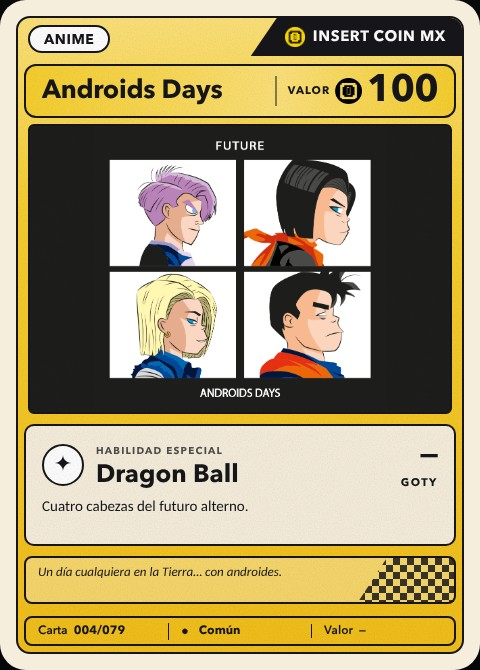
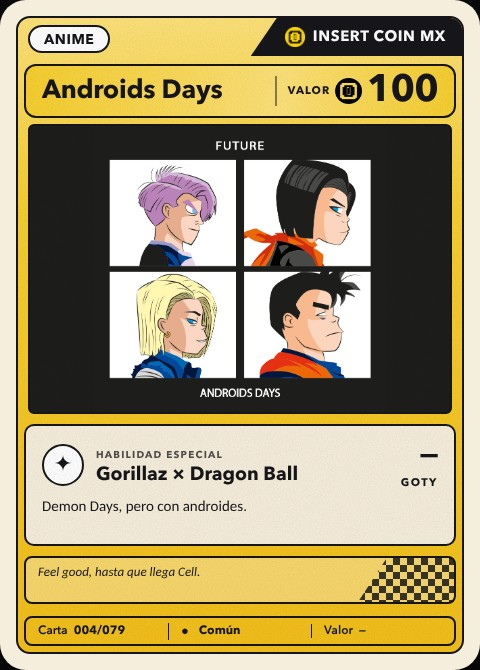
Textos corregidos de 7 cartas (Choo Choo, Pika Ball, 9000, Androids Days, KOF, Vámonos Pest, Galaxian Wars)
Claude-Session: https://claude.ai/code/session_01WEHJpHfwveC4AShtfmQqe7

Changed region(s): [[0.0938, 0.6567, 0.625, 0.7761], [0.0938, 0.8358, 0.5938, 0.8657]]

diff --git a/index.html b/index.html
@@ -606,7 +606,7 @@ button{font:inherit;color:inherit;background:none;border:0;cursor:pointer}
 <div class="onb" id="onb"><img id="onImg"><h2 id="onT"></h2><p id="onP"></p><div class="d" id="onDots"></div><button class="big" id="onNext"></button></div>
 <div class="toast" id="toast"></div>
 
-<script>const CARDS=[{"k":"9000","n":"It's Over 9000","cat":"ANIME","r":"comun","no":1},{"k":"abuket","n":"Abuket","cat":"GAMER","r":"comun","no":2},{"k":"alienonboard","n":"Alien on Board","cat":"PELÍCULAS","r":"comun","no":3},{"k":"androidsdays","n":"Androids Days","cat":"ANIME","r":"comun","no":4},{"k":"animehero","n":"Anime Héroe","cat":"ANIME","r":"comun","no":5},{"k":"arcade","n":"Anatomía del Arcade","cat":"GAMER","r":"comun","no":6},{"k":"arcade2","n":"Insert Coin","cat":"GAMER","r":"comun","no":7},{"k":"artemis","n":"Artemis","cat":"ANIME","r":"comun","no":8},{"k":"blooper","n":"Blooper Maki","cat":"GAMER","r":"comun","no":9},{"k":"bort","n":"Bort","cat":"CARICATURAS","r":"comun","no":10},{"k":"bustfiction","n":"Bust Fiction","cat":"PELÍCULAS","r":"comun","no":11},{"k":"challenger","n":"Here Comes a New Challenger","cat":"GAMER","r":"comun","no":12},{"k":"choochoo","n":"Choo Choo","cat":"CARICATURAS","r":"comun","no":13},{"k":"chorriuken","n":"Chorriuken","cat":"GAMER","r":"comun","no":14},{"k":"collector","n":"Collector","cat":"GAMER","r":"comun","no":15},{"k":"controls","n":"Controls","cat":"GAMER","r":"comun","no":16},{"k":"evilexes","n":"Evil Exes","cat":"PELÍCULAS","r":"comun","no":17},{"k":"family","n":"Family","cat":"GAMER","r":"comun","no":18},{"k":"fatality","n":"Fatality","cat":"GAMER","r":"dorada","no":19},{"k":"fatman","n":"Fatman","cat":"PELÍCULAS","r":"comun","no":20},{"k":"fck","n":"#Fuck","cat":"GAMER","r":"holo","no":21},{"k":"futbolito","n":"Futbolito","cat":"OTROS","r":"comun","no":22},{"k":"galaxianwars","n":"Galaxian Wars","cat":"ANIME","r":"comun","no":23},{"k":"gameover","n":"Game Over","cat":"GAMER","r":"dorada","no":24},{"k":"gamepop","n":"Game Pop","cat":"GAMER","r":"holo","no":25},{"k":"gatosamurai","n":"Gato Samurái","cat":"ANIME","r":"comun","no":26},{"k":"gunsncontrols","n":"Guns N' Controls","cat":"GAMER","r":"comun","no":27},{"k":"humangamer","n":"Human Gamer","cat":"GAMER","r":"comun","no":28},{"k":"hyrule","n":"Hyrule","cat":"GAMER","r":"comun","no":29},{"k":"imposible","n":"Imposible","cat":"OTROS","r":"comun","no":30},{"k":"invader","n":"Invader","cat":"GAMER","r":"comun","no":31},{"k":"kaiji","n":"Kaiju Club","cat":"PELÍCULAS","r":"comun","no":32},{"k":"kame","n":"Kame Hame Ha","cat":"ANIME","r":"comun","no":33},{"k":"karting","n":"Karting Party","cat":"GAMER","r":"comun","no":34},{"k":"keepcalm","n":"Keep Calm","cat":"ANIME","r":"comun","no":35},{"k":"killbills","n":"Kill Bills","cat":"PELÍCULAS","r":"comun","no":36},{"k":"kof","n":"KOF ’94","cat":"GAMER","r":"comun","no":37},{"k":"konamicode","n":"Konami Code","cat":"GAMER","r":"comun","no":38},{"k":"linkfloyd","n":"Link Floyd","cat":"GAMER","r":"comun","no":39},{"k":"links","n":"Links","cat":"GAMER","r":"holo","no":40},{"k":"luna","n":"Luna","cat":"ANIME","r":"comun","no":41},{"k":"mainstream","n":"Mainstream","cat":"GAMER","r":"comun","no":42},{"k":"mapa","n":"Mapa","cat":"GAMER","r":"comun","no":43},{"k":"mrkarate","n":"Mr. Karate","cat":"PELÍCULAS","r":"comun","no":44},{"k":"n64","n":"N64","cat":"GAMER","r":"comun","no":45},{"k":"navidadgamer","n":"Navidad Gamer","cat":"GAMER","r":"comun","no":46},{"k":"nerv","n":"Nerv","cat":"ANIME","r":"holo","no":47},{"k":"no","n":"NO","cat":"GAMER","r":"comun","no":48},{"k":"nowloading","n":"Now Loading","cat":"GAMER","r":"comun","no":49},{"k":"ochentas","n":"Ochentas","cat":"GAMER","r":"comun","no":50},{"k":"oldschool","n":"Old School","cat":"GAMER","r":"comun","no":51},{"k":"omkami","n":"Ōkami","cat":"GAMER","r":"holo","no":52},{"k":"patronus","n":"Mi Patronus","cat":"PELÍCULAS","r":"comun","no":53},{"k":"pikaball","n":"Pika Ball","cat":"GAMER","r":"comun","no":54},{"k":"pizzcipher","n":"Pizzcipher","cat":"CARICATURAS","r":"comun","no":55},{"k":"poketaco","n":"Poké Taco","cat":"GAMER","r":"comun","no":56},{"k":"polystation","n":"PolyStation","cat":"GAMER","r":"holo","no":57},{"k":"portatiles","n":"Portátiles","cat":"GAMER","r":"comun","no":58},{"k":"sailors","n":"Sailor Scout","cat":"ANIME","r":"comun","no":59},{"k":"sailourss","n":"Sailor URSS","cat":"ANIME","r":"comun","no":60},{"k":"samus","n":"Samus","cat":"GAMER","r":"comun","no":61},{"k":"sensei","n":"Sensei","cat":"ANIME","r":"comun","no":62},{"k":"shadaloo","n":"Shadaloo","cat":"GAMER","r":"comun","no":63},{"k":"shenzalcoatl","n":"Shenzalcoatl","cat":"ANIME","r":"comun","no":64},{"k":"snes","n":"Ignore All of My Adult Problems","cat":"GAMER","r":"comun","no":65},{"k":"sv001","n":"SV-001","cat":"GAMER","r":"comun","no":66},{"k":"thankyou","n":"Thank You","cat":"GAMER","r":"comun","no":67},{"k":"thelostgame","n":"The Lost Game","cat":"GAMER","r":"comun","no":68},{"k":"theworldwarrior","n":"The World Warrior","cat":"GAMER","r":"comun","no":69},{"k":"tmnt","n":"Tortugas Ninja","cat":"CARICATURAS","r":"comun","no":70},{"k":"toto","n":"Totoro","cat":"ANIME","r":"comun","no":71},{"k":"triforce","n":"Triforce","cat":"GAMER","r":"dorada","no":72},{"k":"vamonospest","n":"Vámonos Pest","cat":"CARICATURAS","r":"comun","no":73},{"k":"vidaextra","n":"Una Vida Extra","cat":"GAMER","r":"holo","no":74},{"k":"wirimask","n":"Wirimask","cat":"GAMER","r":"comun","no":75},{"k":"x","n":"X","cat":"GAMER","r":"comun","no":76},{"k":"yinyang","n":"Yin Yang","cat":"GAMER","r":"holo","no":77},{"k":"zero","n":"Zero","cat":"GAMER","r":"comun","no":78},{"k":"zodiac","n":"Zodiaco","cat":"ANIME","r":"comun","no":79},{"k":"F_abuket","n":"abuket","cat":"","r":"full","no":1},{"k":"F_arcade","n":"arcade","cat":"","r":"full","no":2},{"k":"F_asteroids","n":"asteroids","cat":"","r":"full","no":3},{"k":"F_blooper","n":"blooper","cat":"","r":"full","no":4},{"k":"F_bustfiction","n":"bustfiction","cat":"","r":"full","no":5},{"k":"F_challenger","n":"challenger","cat":"","r":"full","no":6},{"k":"F_collector","n":"collector","cat":"","r":"full","no":7},{"k":"F_controls","n":"controls","cat":"","r":"full","no":8},{"k":"F_docecasas","n":"docecasas","cat":"","r":"full","no":9},{"k":"F_fatman","n":"fatman","cat":"","r":"full","no":10},{"k":"F_fck","n":"fck","cat":"","r":"full","no":11},{"k":"F_futbolito","n":"futbolito","cat":"","r":"full","no":12},{"k":"F_gamepop","n":"gamepop","cat":"","r":"full","no":13},{"k":"F_gatosamurai","n":"gatosamurai","cat":"","r":"full","no":14},{"k":"F_gunsncontrols","n":"gunsncontrols","cat":"","r":"full","no":15},{"k":"F_humangamer","n":"humangamer","cat":"","r":"full","no":16},{"k":"F_hyrule","n":"hyrule","cat":"","r":"full","no":17},{"k":"F_invader","n":"invader","cat":"","r":"full","no":18},{"k":"F_keepcalm","n":"keepcalm","cat":"","r":"full","no":19},{"k":"F_mapa","n":"mapa","cat":"","r":"full","no":20},{"k":"F_mrkarate","n":"mrkarate","cat":"","r":"full","no":21},{"k":"F_n64","n":"n64","cat":"","r":"full","no":22},{"k":"F_nerv","n":"nerv","cat":"","r":"full","no":23},{"k":"F_omkami","n":"omkami","cat":"","r":"full","no":24},{"k":"F_pizzcipher","n":"pizzcipher","cat":"","r":"full","no":25},{"k":"F_poketaco","n":"poketaco","cat":"","r":"full","no":26},{"k":"F_polystation","n":"polystation","cat":"","r":"full","no":27},{"k":"F_samus","n":"samus","cat":"","r":"full","no":28},{"k":"F_sensei","n":"sensei","cat":"","r":"full","no":29},{"k":"F_shenzalcoatl","n":"shenzalcoatl","cat":"","r":"full","no":30},{"k":"F_snes","n":"snes","cat":"","r":"full","no":31},{"k":"F_sonic","n":"sonic","cat":"","r":"full","no":32},{"k":"F_sv001","n":"sv001","cat":"","r":"full","no":33},{"k":"F_thankyou","n":"thankyou","cat":"","r":"full","no":34},{"k":"F_triforce","n":"triforce","cat":"","r":"full","no":35},{"k":"F_vidaextra","n":"vidaextra","cat":"","r":"full","no":36},{"k":"F_wirimask","n":"wirimask","cat":"","r":"full","no":37},{"k":"F_worldwarrior","n":"worldwarrior","cat":"","r":"full","no":38},{"k":"F_x","n":"x","cat":"","r":"full","no":39},{"k":"F_yinyang","n":"yinyang","cat":"","r":"full","no":40},{"k":"F_zero","n":"zero","cat":"","r":"full","no":41},{"k":"F_zodiaco","n":"zodiaco","cat":"","r":"full","no":42}];
+<script>const CARDS=[{"k":"9000","n":"It's Over 9000","cat":"ANIME","r":"comun","no":1},{"k":"abuket","n":"Abuket","cat":"GAMER","r":"comun","no":2},{"k":"alienonboard","n":"Alien on Board","cat":"PELÍCULAS","r":"comun","no":3},{"k":"androidsdays","n":"Androids Days","cat":"ANIME","r":"comun","no":4},{"k":"animehero","n":"Anime Héroe","cat":"ANIME","r":"comun","no":5},{"k":"arcade","n":"Anatomía del Arcade","cat":"GAMER","r":"comun","no":6},{"k":"arcade2","n":"Insert Coin","cat":"GAMER","r":"comun","no":7},{"k":"artemis","n":"Artemis","cat":"ANIME","r":"comun","no":8},{"k":"blooper","n":"Blooper Maki","cat":"GAMER","r":"comun","no":9},{"k":"bort","n":"Bort","cat":"CARICATURAS","r":"comun","no":10},{"k":"bustfiction","n":"Bust Fiction","cat":"PELÍCULAS","r":"comun","no":11},{"k":"challenger","n":"Here Comes a New Challenger","cat":"GAMER","r":"comun","no":12},{"k":"choochoo","n":"Choo Choo","cat":"CARICATURAS","r":"comun","no":13},{"k":"chorriuken","n":"Chorriuken","cat":"GAMER","r":"comun","no":14},{"k":"collector","n":"Collector","cat":"GAMER","r":"comun","no":15},{"k":"controls","n":"Controls","cat":"GAMER","r":"comun","no":16},{"k":"evilexes","n":"Evil Exes","cat":"PELÍCULAS","r":"comun","no":17},{"k":"family","n":"Family","cat":"GAMER","r":"comun","no":18},{"k":"fatality","n":"Fatality","cat":"GAMER","r":"dorada","no":19},{"k":"fatman","n":"Fatman","cat":"PELÍCULAS","r":"comun","no":20},{"k":"fck","n":"#Fuck","cat":"GAMER","r":"holo","no":21},{"k":"futbolito","n":"Futbolito","cat":"OTROS","r":"comun","no":22},{"k":"galaxianwars","n":"Galaxian Wars","cat":"ANIME","r":"comun","no":23},{"k":"gameover","n":"Game Over","cat":"GAMER","r":"dorada","no":24},{"k":"gamepop","n":"Game Pop","cat":"GAMER","r":"holo","no":25},{"k":"gatosamurai","n":"Gato Samurái","cat":"ANIME","r":"comun","no":26},{"k":"gunsncontrols","n":"Guns N' Controls","cat":"GAMER","r":"comun","no":27},{"k":"humangamer","n":"Human Gamer","cat":"GAMER","r":"comun","no":28},{"k":"hyrule","n":"Hyrule","cat":"GAMER","r":"comun","no":29},{"k":"imposible","n":"Imposible","cat":"OTROS","r":"comun","no":30},{"k":"invader","n":"Invader","cat":"GAMER","r":"comun","no":31},{"k":"kaiji","n":"Kaiju Club","cat":"PELÍCULAS","r":"comun","no":32},{"k":"kame","n":"Kame Hame Ha","cat":"ANIME","r":"comun","no":33},{"k":"karting","n":"Karting Party","cat":"GAMER","r":"comun","no":34},{"k":"keepcalm","n":"Keep Calm","cat":"ANIME","r":"comun","no":35},{"k":"killbills","n":"Kill Bills","cat":"PELÍCULAS","r":"comun","no":36},{"k":"kof","n":"KOF Héroes","cat":"GAMER","r":"comun","no":37},{"k":"konamicode","n":"Konami Code","cat":"GAMER","r":"comun","no":38},{"k":"linkfloyd","n":"Link Floyd","cat":"GAMER","r":"comun","no":39},{"k":"links","n":"Links","cat":"GAMER","r":"holo","no":40},{"k":"luna","n":"Luna","cat":"ANIME","r":"comun","no":41},{"k":"mainstream","n":"Mainstream","cat":"GAMER","r":"comun","no":42},{"k":"mapa","n":"Mapa","cat":"GAMER","r":"comun","no":43},{"k":"mrkarate","n":"Mr. Karate","cat":"PELÍCULAS","r":"comun","no":44},{"k":"n64","n":"N64","cat":"GAMER","r":"comun","no":45},{"k":"navidadgamer","n":"Navidad Gamer","cat":"GAMER","r":"comun","no":46},{"k":"nerv","n":"Nerv","cat":"ANIME","r":"holo","no":47},{"k":"no","n":"NO","cat":"GAMER","r":"comun","no":48},{"k":"nowloading","n":"Now Loading","cat":"GAMER","r":"comun","no":49},{"k":"ochentas","n":"Ochentas","cat":"GAMER","r":"comun","no":50},{"k":"oldschool","n":"Old School","cat":"GAMER","r":"comun","no":51},{"k":"omkami","n":"Ōkami","cat":"GAMER","r":"holo","no":52},{"k":"patronus","n":"Mi Patronus","cat":"PELÍCULAS","r":"comun","no":53},{"k":"pikaball","n":"Pika Ball","cat":"GAMER","r":"comun","no":54},{"k":"pizzcipher","n":"Pizzcipher","cat":"CARICATURAS","r":"comun","no":55},{"k":"poketaco","n":"Poké Taco","cat":"GAMER","r":"comun","no":56},{"k":"polystation","n":"PolyStation","cat":"GAMER","r":"holo","no":57},{"k":"portatiles","n":"Portátiles","cat":"GAMER","r":"comun","no":58},{"k":"sailors","n":"Sailor Scout","cat":"ANIME","r":"comun","no":59},{"k":"sailourss","n":"Sailor URSS","cat":"ANIME","r":"comun","no":60},{"k":"samus","n":"Samus","cat":"GAMER","r":"comun","no":61},{"k":"sensei","n":"Sensei","cat":"ANIME","r":"comun","no":62},{"k":"shadaloo","n":"Shadaloo","cat":"GAMER","r":"comun","no":63},{"k":"shenzalcoatl","n":"Shenzalcoatl","cat":"ANIME","r":"comun","no":64},{"k":"snes","n":"Ignore All of My Adult Problems","cat":"GAMER","r":"comun","no":65},{"k":"sv001","n":"SV-001","cat":"GAMER","r":"comun","no":66},{"k":"thankyou","n":"Thank You","cat":"GAMER","r":"comun","no":67},{"k":"thelostgame","n":"The Lost Game","cat":"GAMER","r":"comun","no":68},{"k":"theworldwarrior","n":"The World Warrior","cat":"GAMER","r":"comun","no":69},{"k":"tmnt","n":"Tortugas Ninja","cat":"CARICATURAS","r":"comun","no":70},{"k":"toto","n":"Totoro","cat":"ANIME","r":"comun","no":71},{"k":"triforce","n":"Triforce","cat":"GAMER","r":"dorada","no":72},{"k":"vamonospest","n":"Vámonos Pest","cat":"CARICATURAS","r":"comun","no":73},{"k":"vidaextra","n":"Una Vida Extra","cat":"GAMER","r":"holo","no":74},{"k":"wirimask","n":"Wirimask","cat":"GAMER","r":"comun","no":75},{"k":"x","n":"X","cat":"GAMER","r":"comun","no":76},{"k":"yinyang","n":"Yin Yang","cat":"GAMER","r":"holo","no":77},{"k":"zero","n":"Zero","cat":"GAMER","r":"comun","no":78},{"k":"zodiac","n":"Zodiaco","cat":"ANIME","r":"comun","no":79},{"k":"F_abuket","n":"abuket","cat":"","r":"full","no":1},{"k":"F_arcade","n":"arcade","cat":"","r":"full","no":2},{"k":"F_asteroids","n":"asteroids","cat":"","r":"full","no":3},{"k":"F_blooper","n":"blooper","cat":"","r":"full","no":4},{"k":"F_bustfiction","n":"bustfiction","cat":"","r":"full","no":5},{"k":"F_challenger","n":"challenger","cat":"","r":"full","no":6},{"k":"F_collector","n":"collector","cat":"","r":"full","no":7},{"k":"F_controls","n":"controls","cat":"","r":"full","no":8},{"k":"F_docecasas","n":"docecasas","cat":"","r":"full","no":9},{"k":"F_fatman","n":"fatman","cat":"","r":"full","no":10},{"k":"F_fck","n":"fck","cat":"","r":"full","no":11},{"k":"F_futbolito","n":"futbolito","cat":"","r":"full","no":12},{"k":"F_gamepop","n":"gamepop","cat":"","r":"full","no":13},{"k":"F_gatosamurai","n":"gatosamurai","cat":"","r":"full","no":14},{"k":"F_gunsncontrols","n":"gunsncontrols","cat":"","r":"full","no":15},{"k":"F_humangamer","n":"humangamer","cat":"","r":"full","no":16},{"k":"F_hyrule","n":"hyrule","cat":"","r":"full","no":17},{"k":"F_invader","n":"invader","cat":"","r":"full","no":18},{"k":"F_keepcalm","n":"keepcalm","cat":"","r":"full","no":19},{"k":"F_mapa","n":"mapa","cat":"","r":"full","no":20},{"k":"F_mrkarate","n":"mrkarate","cat":"","r":"full","no":21},{"k":"F_n64","n":"n64","cat":"","r":"full","no":22},{"k":"F_nerv","n":"nerv","cat":"","r":"full","no":23},{"k":"F_omkami","n":"omkami","cat":"","r":"full","no":24},{"k":"F_pizzcipher","n":"pizzcipher","cat":"","r":"full","no":25},{"k":"F_poketaco","n":"poketaco","cat":"","r":"full","no":26},{"k":"F_polystation","n":"polystation","cat":"","r":"full","no":27},{"k":"F_samus","n":"samus","cat":"","r":"full","no":28},{"k":"F_sensei","n":"sensei","cat":"","r":"full","no":29},{"k":"F_shenzalcoatl","n":"shenzalcoatl","cat":"","r":"full","no":30},{"k":"F_snes","n":"snes","cat":"","r":"full","no":31},{"k":"F_sonic","n":"sonic","cat":"","r":"full","no":32},{"k":"F_sv001","n":"sv001","cat":"","r":"full","no":33},{"k":"F_thankyou","n":"thankyou","cat":"","r":"full","no":34},{"k":"F_triforce","n":"triforce","cat":"","r":"full","no":35},{"k":"F_vidaextra","n":"vidaextra","cat":"","r":"full","no":36},{"k":"F_wirimask","n":"wirimask","cat":"","r":"full","no":37},{"k":"F_worldwarrior","n":"worldwarrior","cat":"","r":"full","no":38},{"k":"F_x","n":"x","cat":"","r":"full","no":39},{"k":"F_yinyang","n":"yinyang","cat":"","r":"full","no":40},{"k":"F_zero","n":"zero","cat":"","r":"full","no":41},{"k":"F_zodiaco","n":"zodiaco","cat":"","r":"full","no":42}];
 const BASE=CARDS.filter(c=>c.r!=='full'),FULL=CARDS.filter(c=>c.r==='full');
 const PAGES=[['GAMER',c=>c.cat==='GAMER'],['ANIME',c=>c.cat==='ANIME'],['CINE Y TV',c=>['PELÍCULAS','CARICATURAS','OTROS'].includes(c.cat)],['ILUSTRACIONES ★★',c=>c.r==='full']];
 const W={comun:70,holo:18,dorada:5,full:7};
